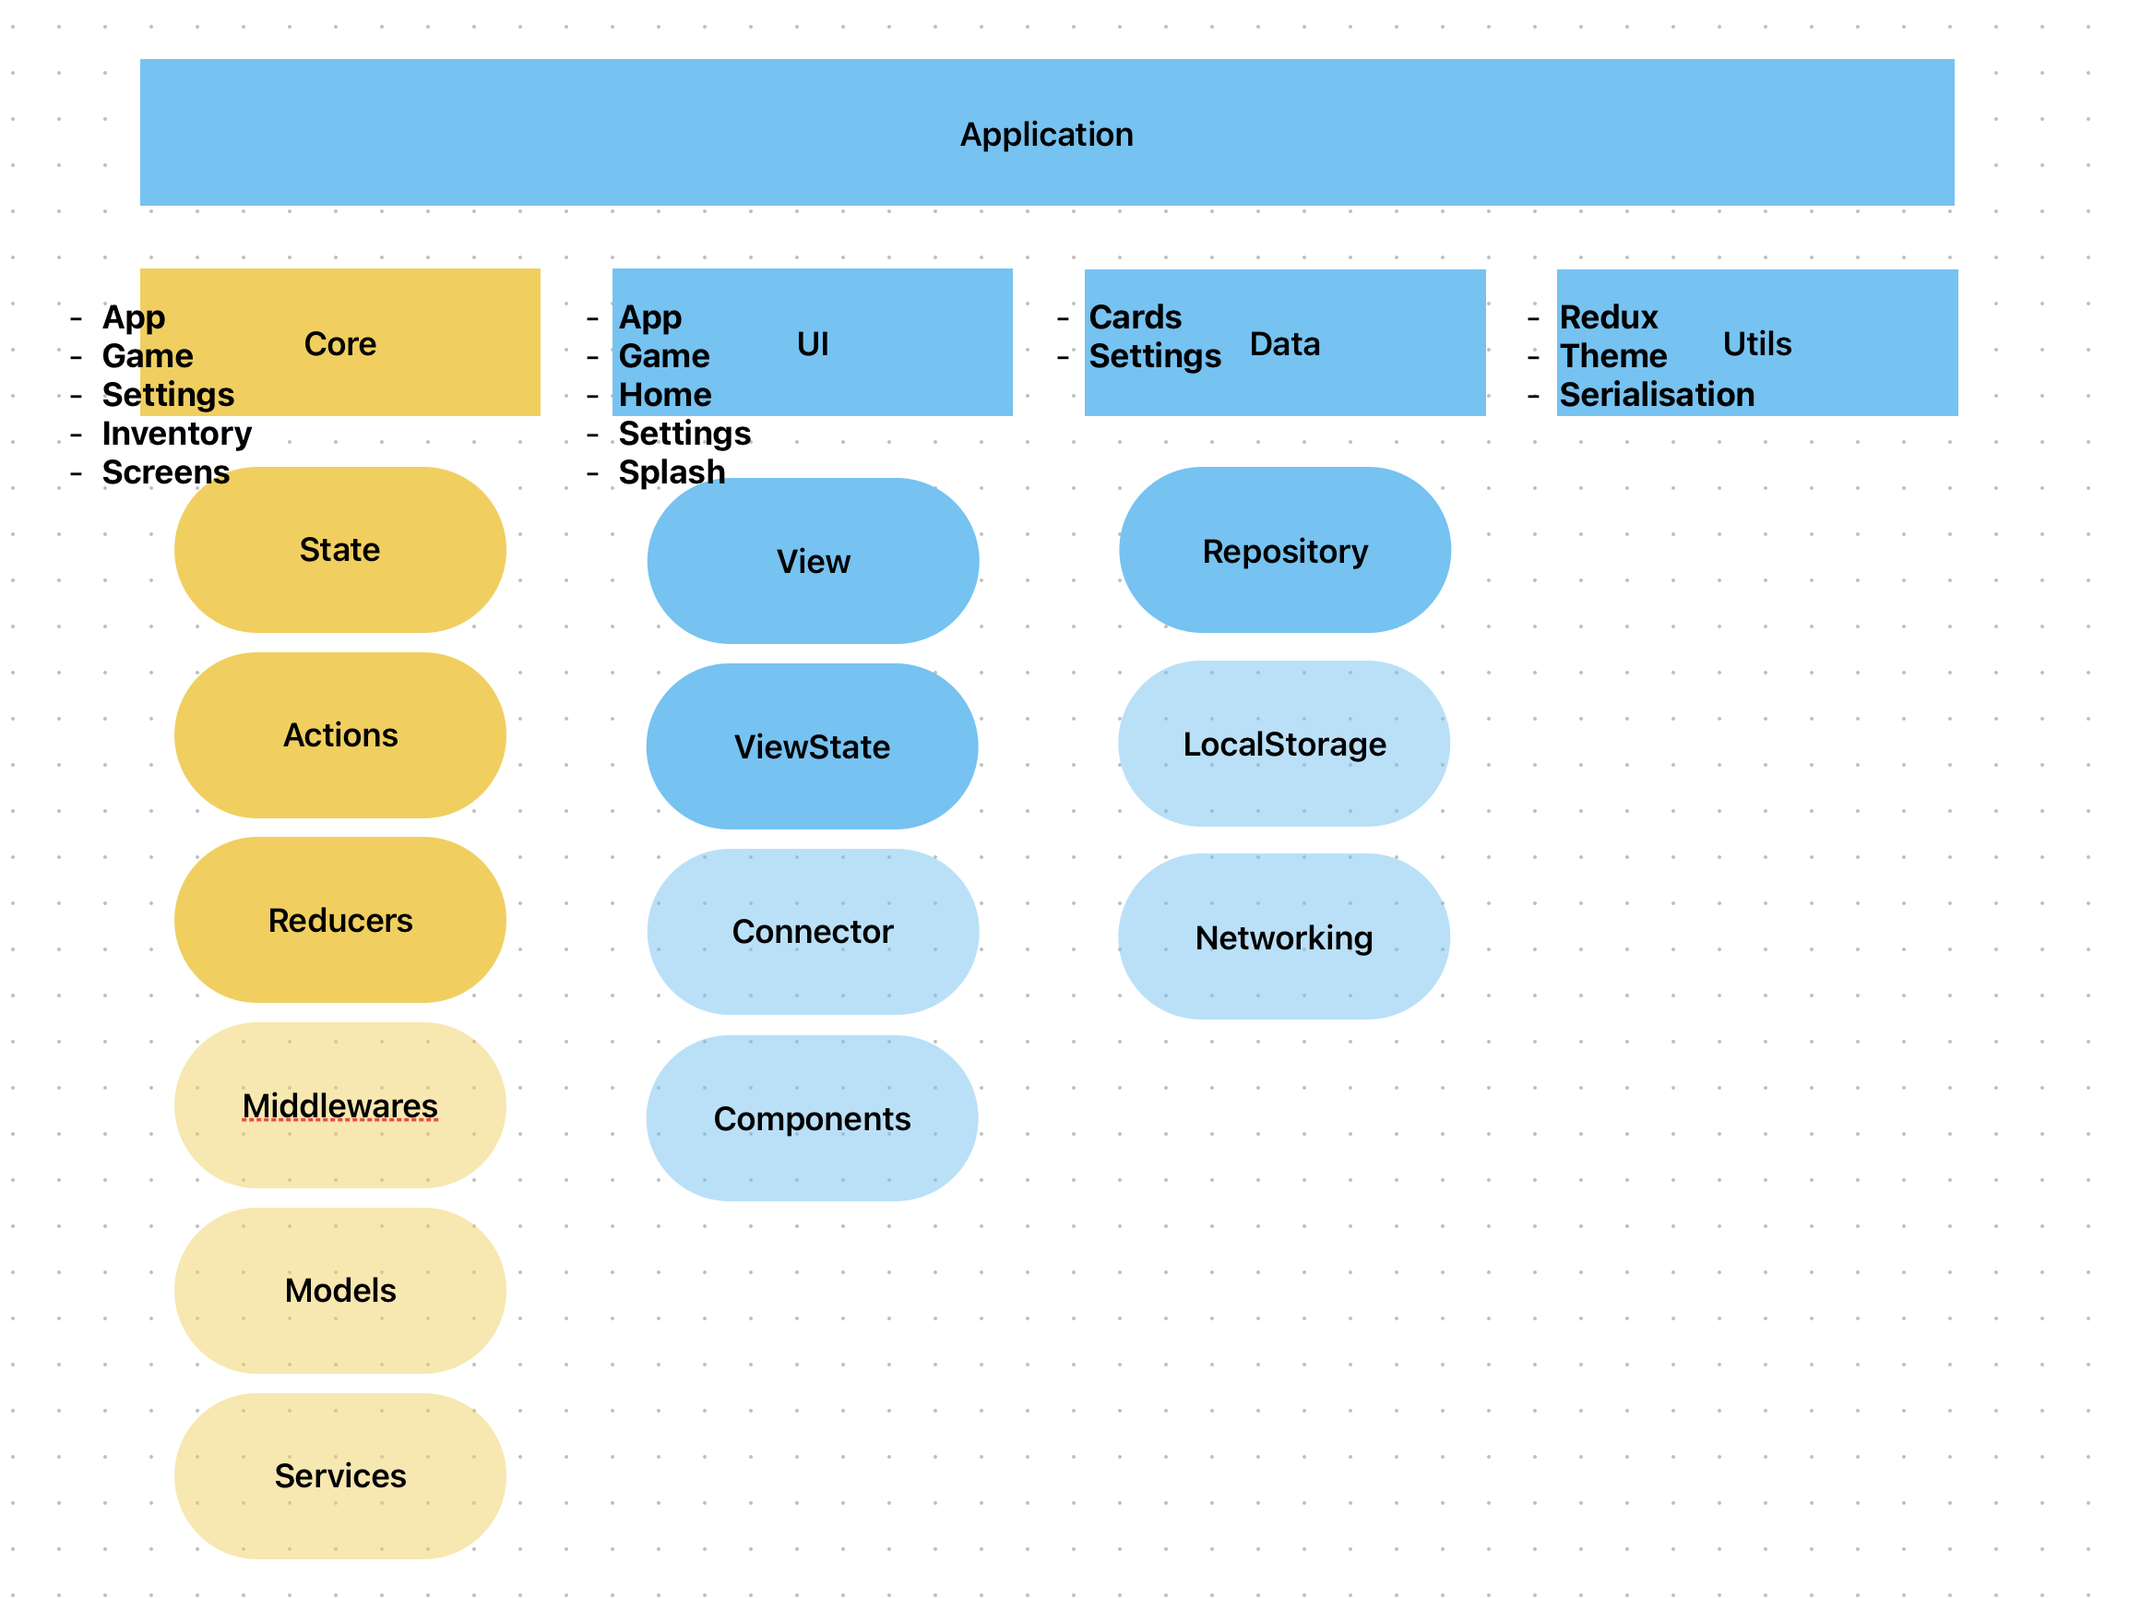
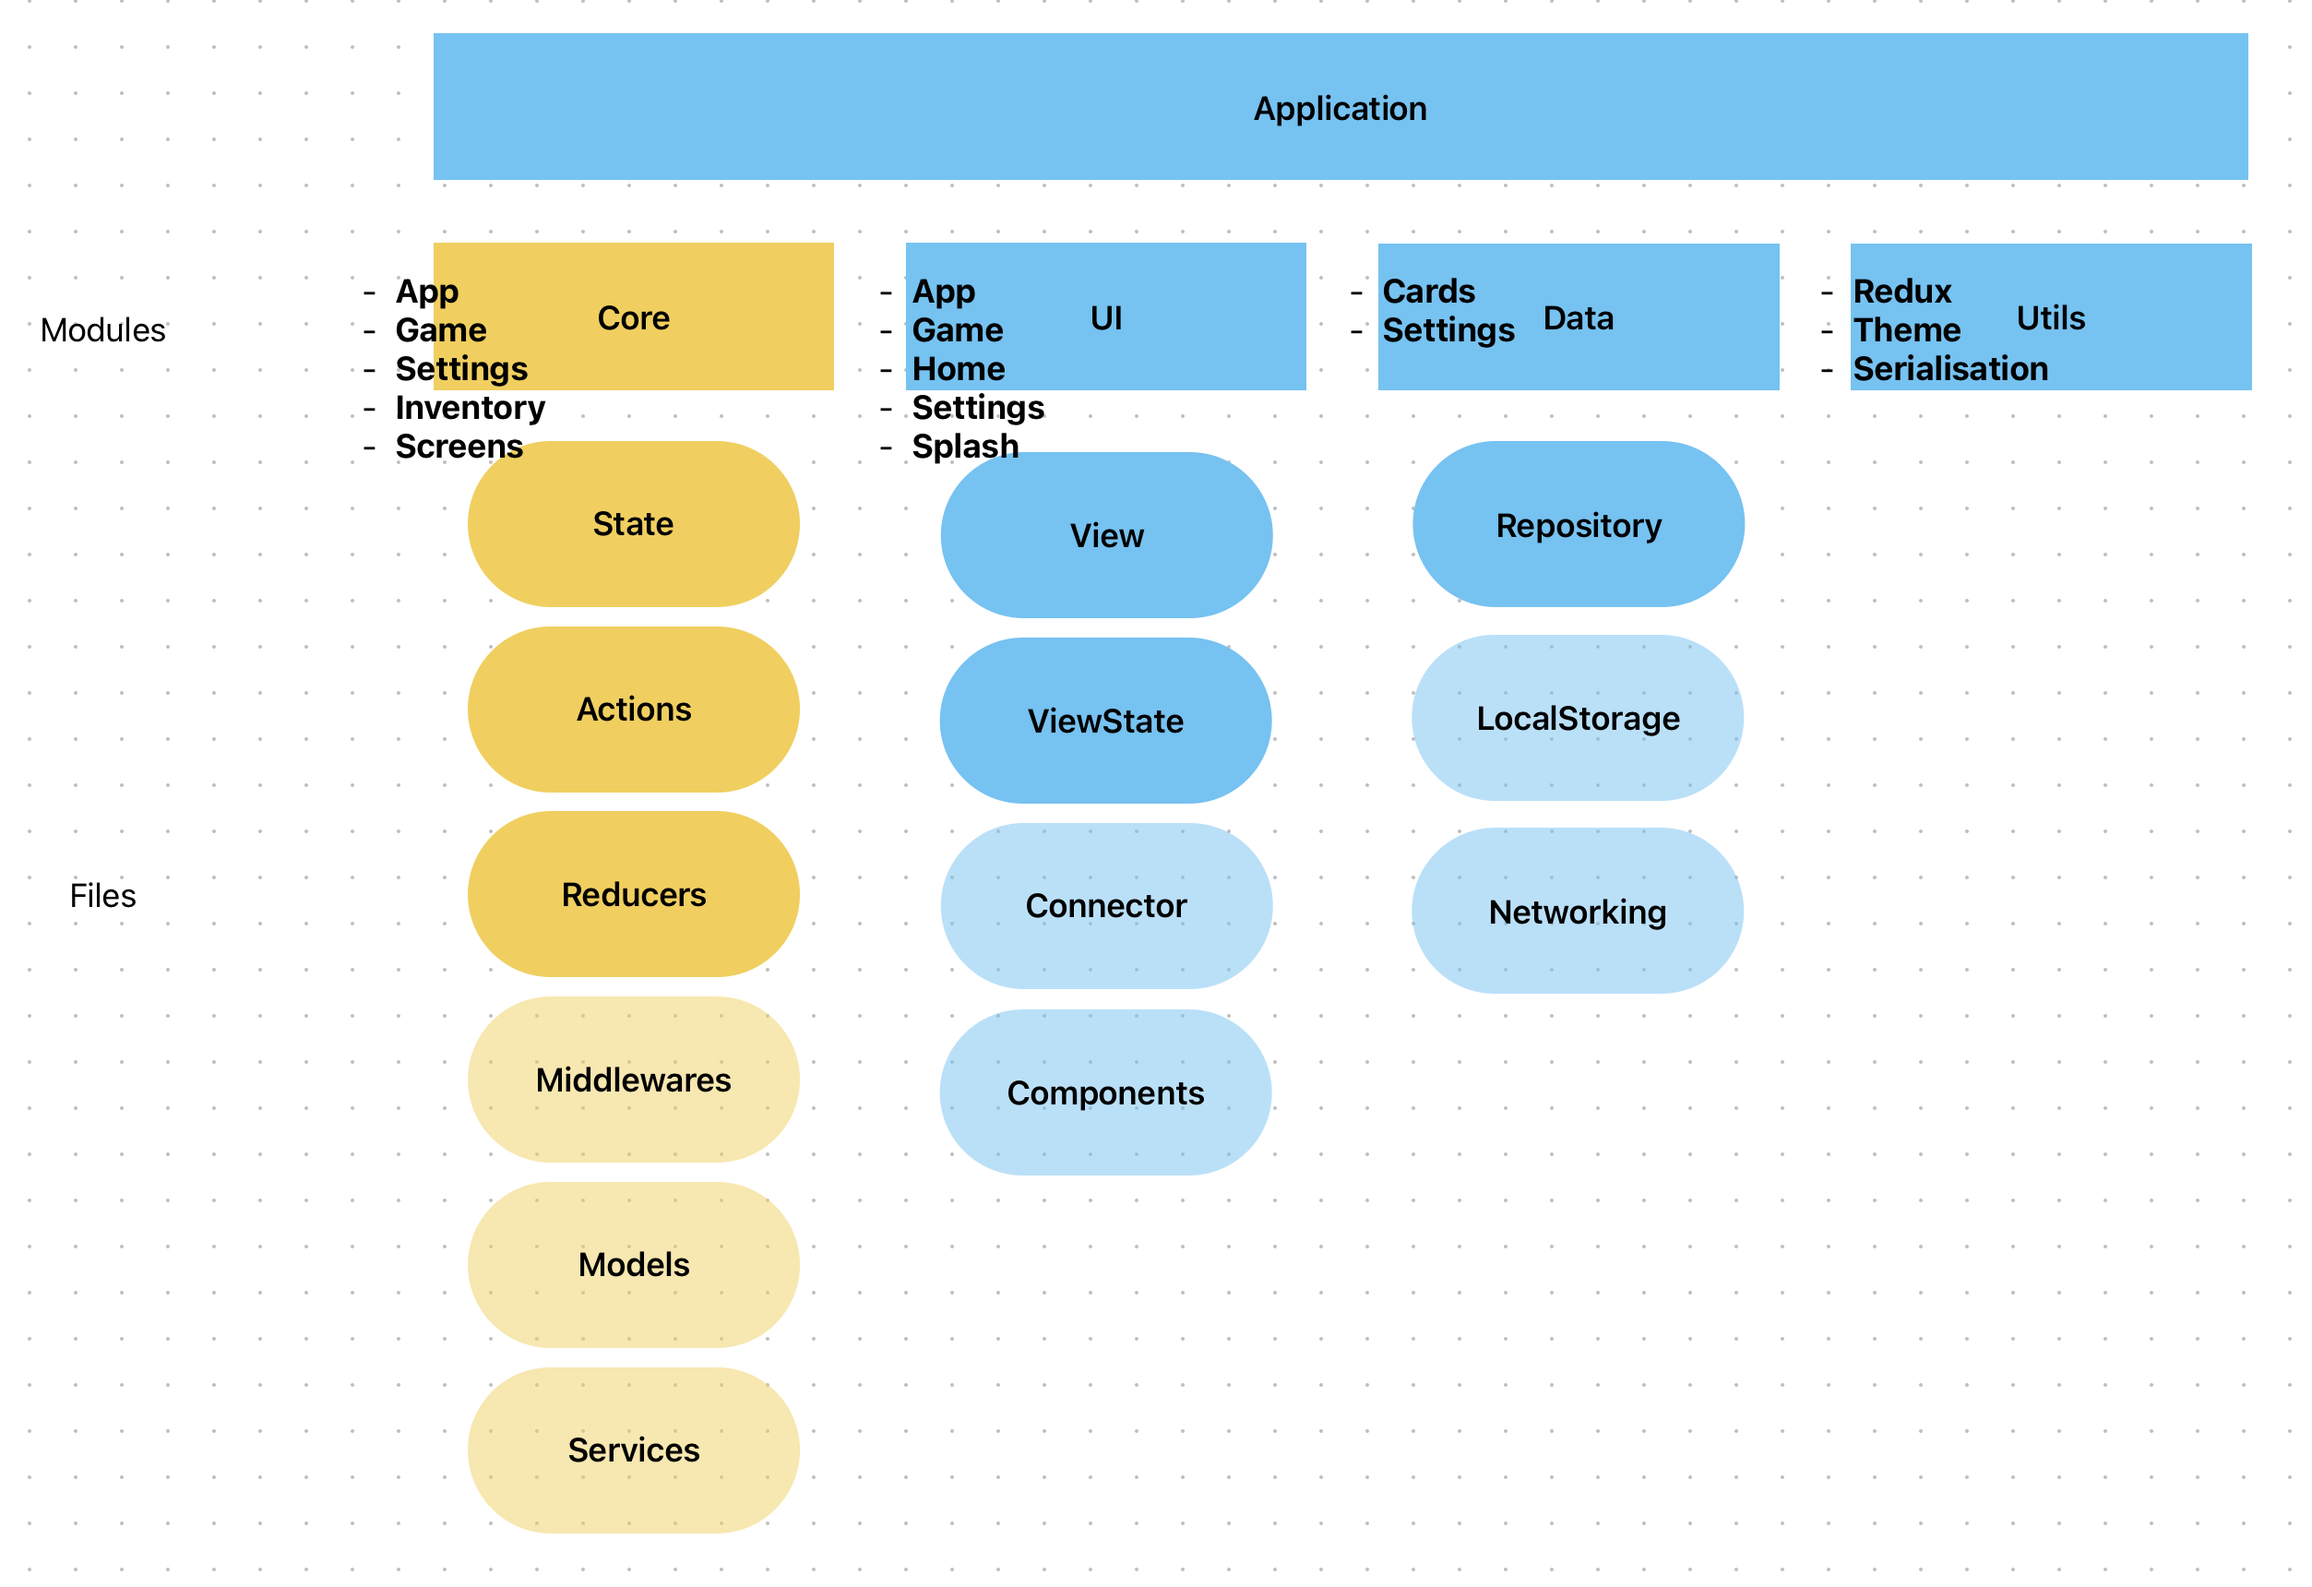
Update readme

diff --git a/README.md b/README.md
@@ -57,6 +57,12 @@ However, we can "derive" this store to small subsets, called store projections, 
 ![](Docs/app_modules.png)
 
 
+#### Project structure
+
+The project is composed of SwiftPackage products with the following structure. 
+
+![](Docs/project_structure.png)
+
 
 ### Sequence diagram
 
